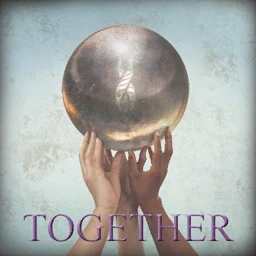
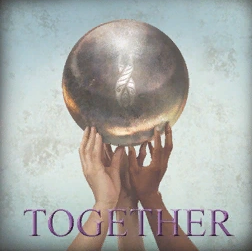
prologue content update

diff --git a/projects/work 1/Deadspace (2008)/pages/deadspace_prologue.html b/projects/work 1/Deadspace (2008)/pages/deadspace_prologue.html
@@ -260,7 +260,7 @@ One even went as far as to proclaim death as their calling.
       </p>
     </div>
 
-    <div class="centertitle parallax  uni_03 bottom-mask background-position-focus-top" style="filter: grayscale();">
+    <div class="centertitle parallax  uni_03 bottom-mask background-position-focus-top">
       <img src="../img/prologue/marker.png" alt="">
     </div>
 

diff --git a/projects/work 1/Deadspace (2008)/css/deadspace_prologue.css b/projects/work 1/Deadspace (2008)/css/deadspace_prologue.css
@@ -32,7 +32,7 @@
     background-image: url(../img/prologue/uni_02.jpg);
 }
 .uni_03 {
-    background-image: url(../img/prologue/uni_03_2.png);
+    background-image: url(../img/prologue/uni_03.png);
 }
 .background-position-focus-top {
     background-position: top center;

diff --git a/projects/work 1/Deadspace (2008)/css/deadspace_mobile.css b/projects/work 1/Deadspace (2008)/css/deadspace_mobile.css
@@ -69,6 +69,6 @@ p.mono.lefttitle {
     background-image: url(../img/prologue/uni_02.webp);
 }
 .uni_03 {
-    background-image: url(../img/prologue/uni_03_2.webp);
+    background-image: url(../img/prologue/uni_03.webp);
 }
 }
